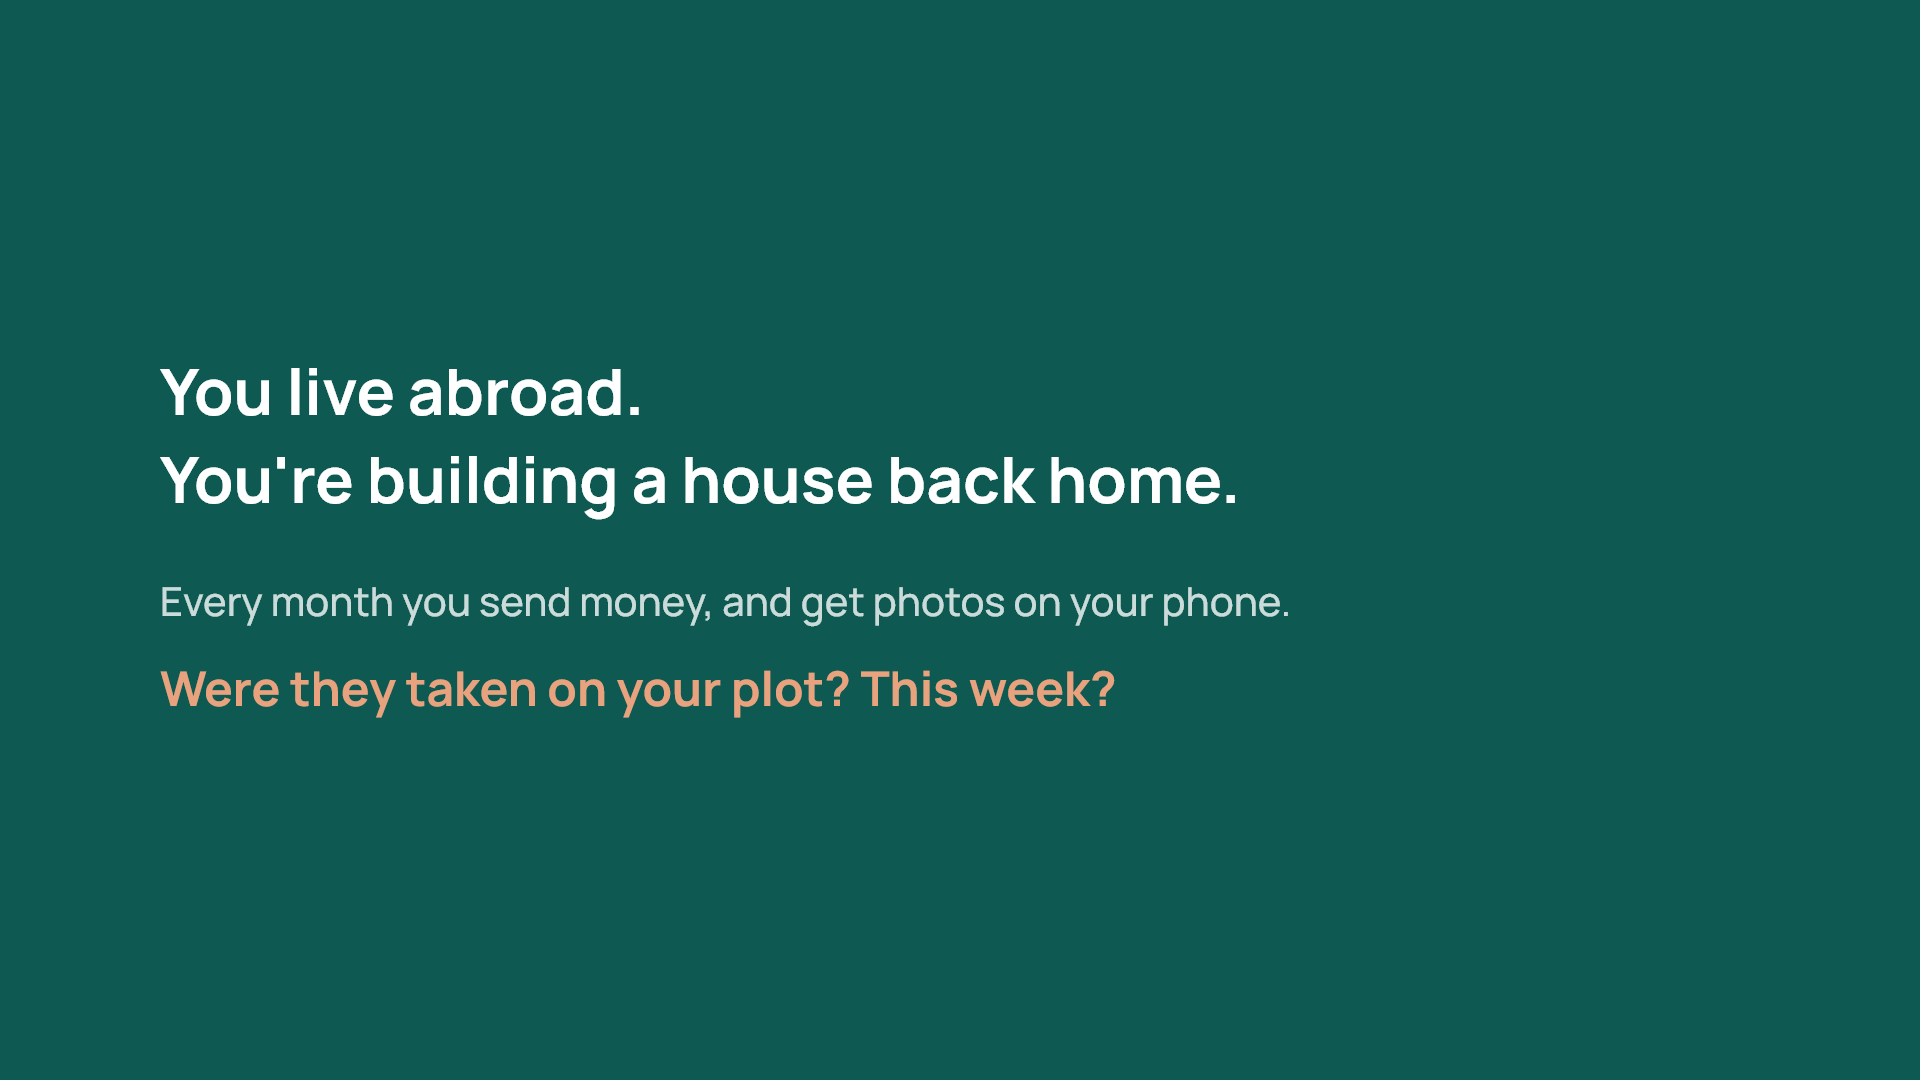
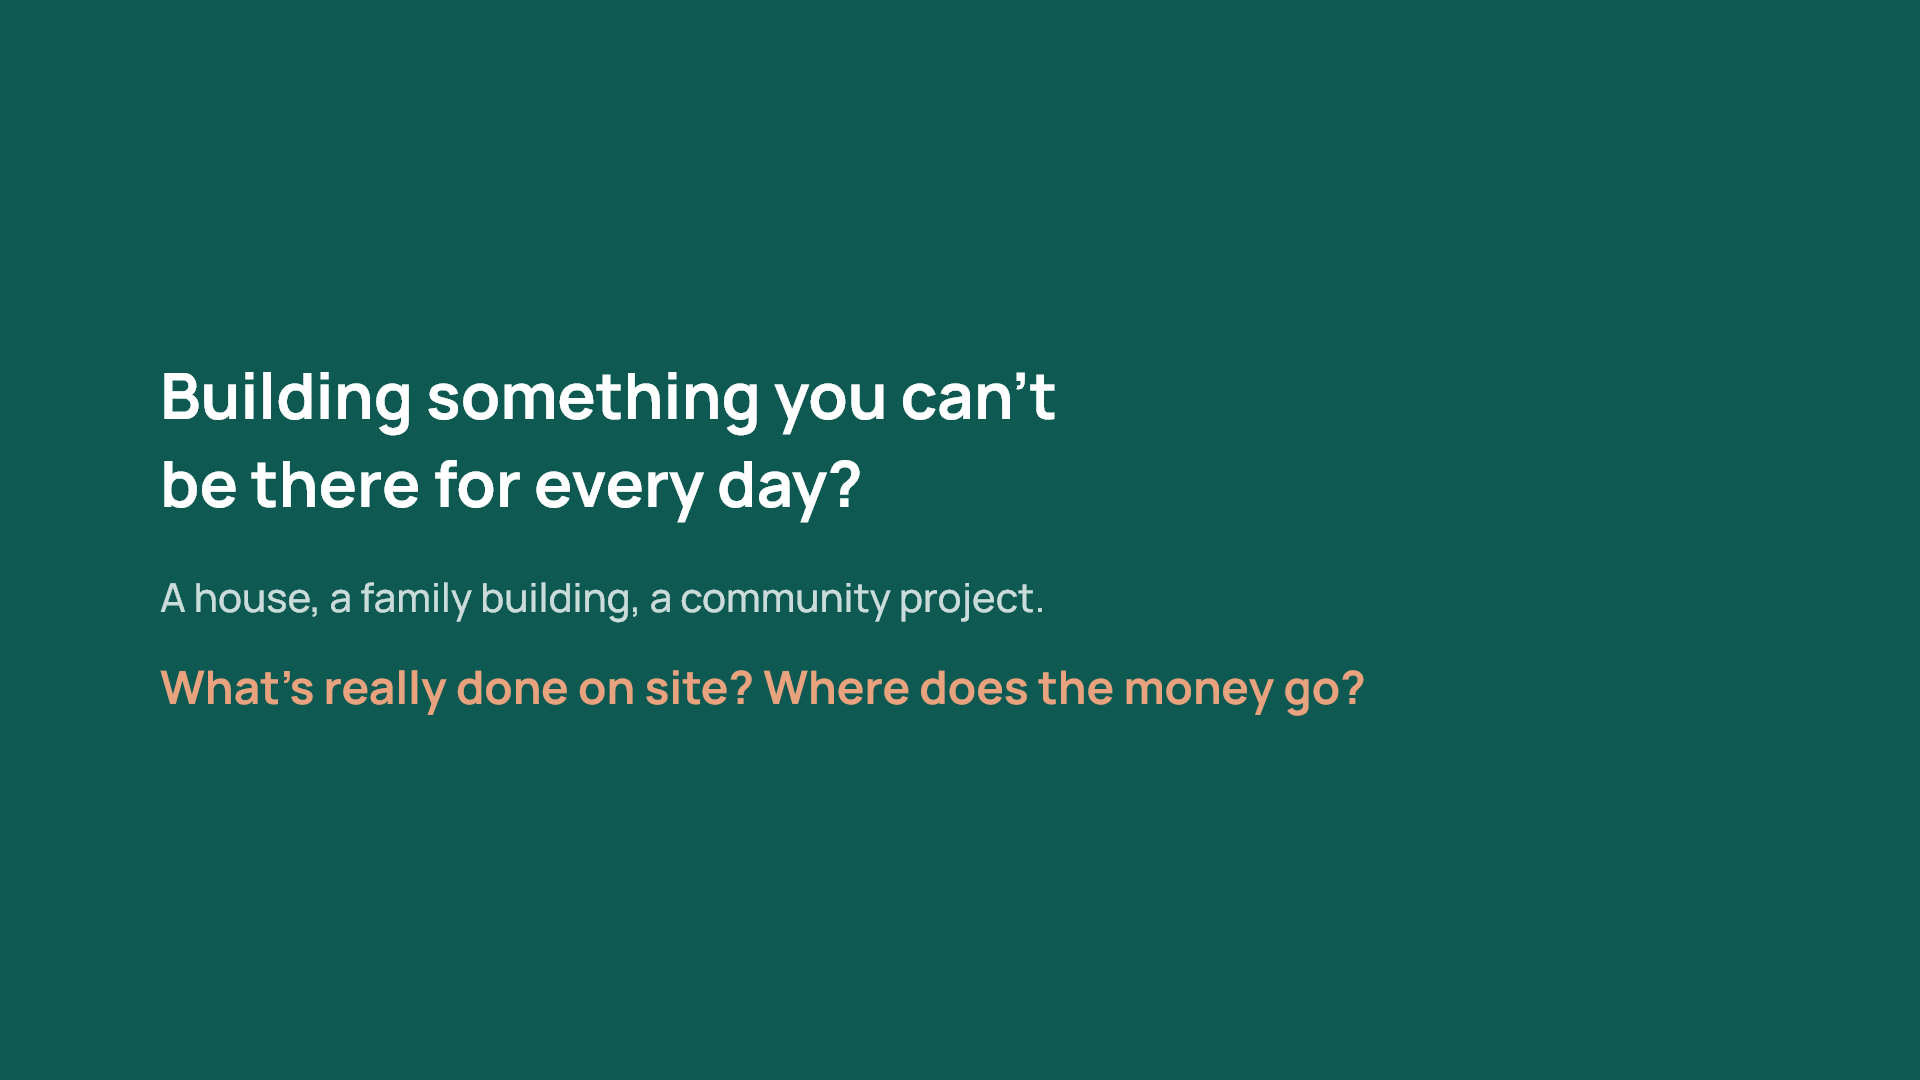
docs(video): the story is overseeing a build from afar, stage by stage
The developer's positioning: Plotwatch is for overseeing a construction
project as it moves forward, not for people abroad sending money. The
script's opening, the first card, the title card's tagline, the subtitles,
the README's opening and the video title follow it.

diff --git a/plotwatch_flutter/tool/screenshots/video_cards_test.dart b/plotwatch_flutter/tool/screenshots/video_cards_test.dart
@@ -16,18 +16,18 @@ void main() {
     '01_problem': const _Card(
       dark: true,
       children: [
-        _Line('You live abroad.', size: 64),
-        _Line("You're building a house back home.", size: 64),
-        SizedBox(height: 48),
+        _Line("Building something you can't", size: 64),
+        _Line('be there for every day?', size: 64),
+        SizedBox(height: 40),
         _Line(
-          'Every month you send money, and get photos on your phone.',
+          'A house, a family building, a community project.',
           size: 40,
           muted: true,
         ),
-        SizedBox(height: 24),
+        SizedBox(height: 28),
         _Line(
-          'Were they taken on your plot? This week?',
-          size: 48,
+          "What's really done on site? Where does the money go?",
+          size: 46,
           accent: true,
         ),
       ],
@@ -39,7 +39,7 @@ void main() {
         _Line('Plotwatch', size: 120, weight: FontWeight.w800),
         SizedBox(height: 16),
         _Line(
-          "Fund a building you can't watch being built.",
+          'Oversee your construction project from anywhere.',
           size: 48,
           muted: true,
         ),

diff --git a/doc/07-demo-video.md b/doc/07-demo-video.md
@@ -44,9 +44,9 @@ cut them to the voice. The times are where each line starts.
 
 | Time | Picture | Voice-over |
 |---|---|---|
-| 0:00 | Card `01_problem.png` | You live abroad, and you're building a house back home. Every month you send money, and you get photos on your phone. Were they taken on your plot? This week? |
-| 0:12 | Card `02_title.png` | Plotwatch replaces trust with evidence. |
-| 0:16 | **Scene 1: the project** (Chrome) | Brice lives in Canada. He's funding a five-storey residence in Yaoundé. Plotwatch shows him the build stage by stage, and what needs him now. |
+| 0:00 | Card `01_problem.png` | Building something you can't be there for every day? A house, a family building, a community project. You need to know what's really done on site, stage by stage, and where the money goes. |
+| 0:12 | Card `02_title.png` | Plotwatch lets you oversee it from anywhere, with evidence you can trust. |
+| 0:16 | **Scene 1: the project** (Chrome) | Brice is overseeing a five-storey residence in Yaoundé. Plotwatch shows him the build stage by stage, and what needs him now. |
 | 0:30 | **Scene 2: a verified photo** (Chrome) | Every photo is taken with the app's camera, on the plot. The server checks it: inside the site boundary, accurate GPS, its own clock, and the photo's fingerprint. Verified. |
 | 0:48 | **Scene 3: a partly verified photo** (Chrome) | When a check fails, Plotwatch says so. This one is only partly verified: the GPS fix was weak. |
 | 0:58 | **Scene 4: the review** (Chrome) | When the site manager submits a stage, Brice is notified at once. He approves it, or sends it back with a comment. |
@@ -138,6 +138,6 @@ Signed in as Joseph, the site manager.
   file › With timing). If your cut's timing differs, adjust it in YouTube's
   editor.
 - **Export:** 1080p, MP4. **Check the length: under 2:00.**
-- **YouTube:** title "Plotwatch: fund a building you can't watch being
-  built". Set it to **Public** (Unlisted only if the rules accept it). In
+- **YouTube:** title "Plotwatch: oversee your construction project from
+  anywhere". Set it to **Public** (Unlisted only if the rules accept it). In
   the description, the live URL and the repository.

diff --git a/README.md b/README.md
@@ -1,11 +1,11 @@
 # Plotwatch
 
-**Fund a building you can't watch being built.**
+**Oversee your construction project from anywhere.**
 
-Many people pay for a house, a family building or a community project far
-from where they live: a nurse in Montreal building in Yaoundé, a family
-abroad funding a village school. They send money in stages and have to trust
-whatever the site tells them. Plotwatch replaces trust with evidence.
+A house, a family building, a community project: whoever pays for a build
+can't be on site every day. They need to know what has really been done,
+stage by stage, and where the money went. Plotwatch lets them oversee the
+project as it moves forward, with evidence they can trust.
 
 - **Verified site photos:**
   - taken only with the in-app camera (never the gallery);
